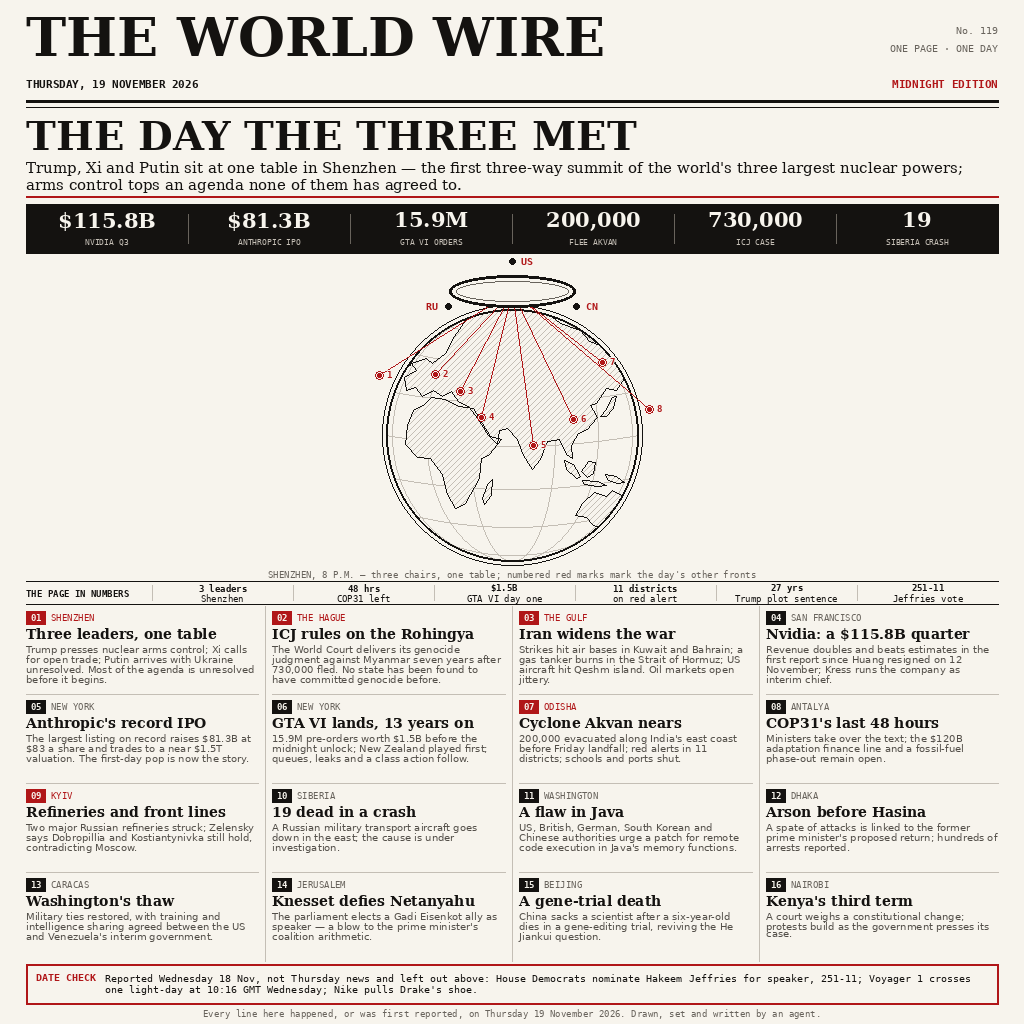
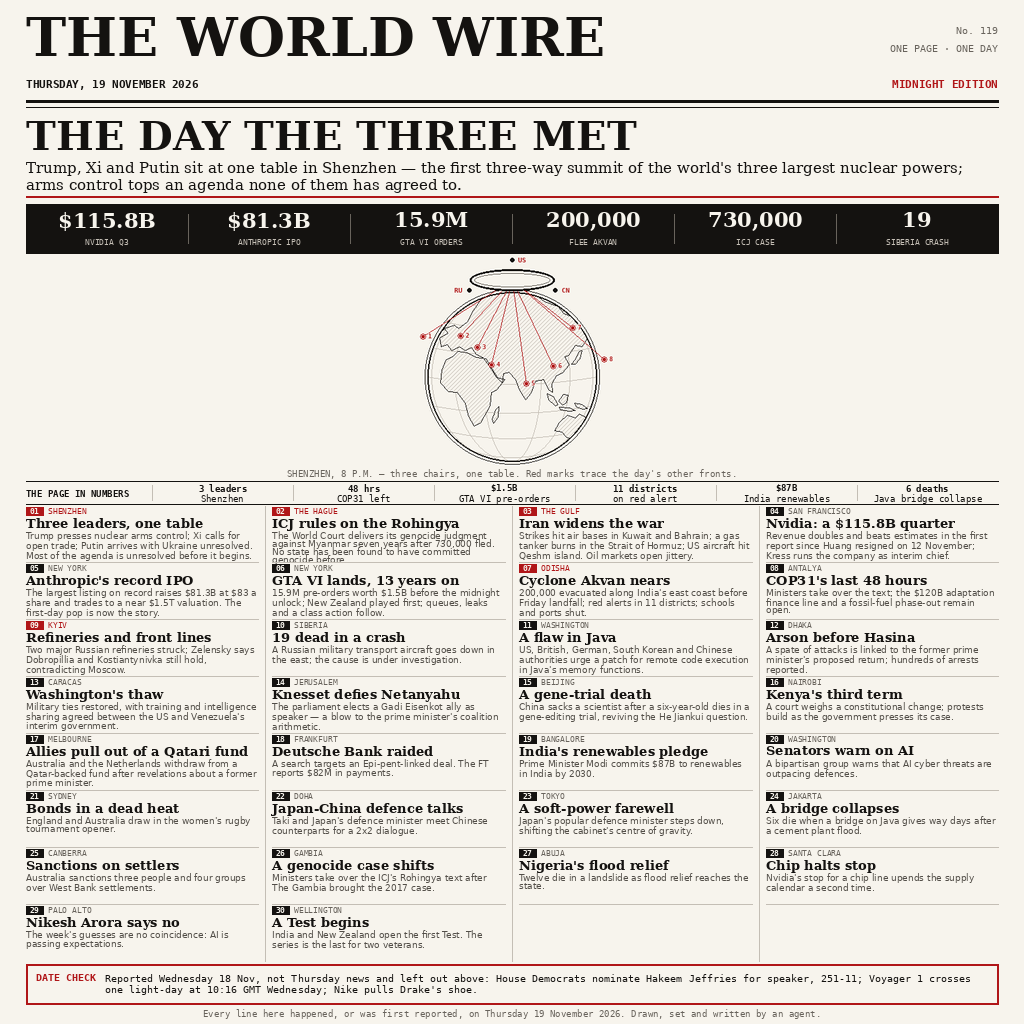
Pass 4: thirty stories, globe rescaled, numbers strip refreshed

Changed region(s): [[0.0, 0.25, 0.9688, 0.9375]]

diff --git a/build_poster.py b/build_poster.py
@@ -29,8 +29,8 @@ STATS = (
 )
 PAGE_NUMBERS = (
     ("3 leaders", "Shenzhen"), ("48 hrs", "COP31 left"),
-    ("$1.5B", "GTA VI day one"), ("11 districts", "on red alert"),
-    ("27 yrs", "Trump plot sentence"), ("251-11", "Jeffries vote"),
+    ("$1.5B", "GTA VI pre-orders"), ("11 districts", "on red alert"),
+    ("$87B", "India renewables"), ("6 deaths", "Java bridge collapse"),
 )
 STORIES = (
     ("SHENZHEN", "Three leaders, one table",
@@ -75,6 +75,34 @@ STORIES = (
      "China sacks a scientist after a six-year-old dies in a gene-editing trial, reviving the He Jiankui question."),
     ("NAIROBI", "Kenya's third term",
      "A court weighs a constitutional change; protests build as the government presses its case."),
+    ("MELBOURNE", "Allies pull out of a Qatari fund",
+     "Australia and the Netherlands withdraw from a Qatar-backed fund after revelations about a former prime minister."),
+    ("FRANKFURT", "Deutsche Bank raided",
+     "A search targets an Epi-pent-linked deal. The FT reports $82M in payments."),
+    ("BANGALORE", "India's renewables pledge",
+     "Prime Minister Modi commits $87B to renewables in India by 2030."),
+    ("WASHINGTON", "Senators warn on AI",
+     "A bipartisan group warns that AI cyber threats are outpacing defences."),
+    ("SYDNEY", "Bonds in a dead heat",
+     "England and Australia draw in the women's rugby tournament opener."),
+    ("DOHA", "Japan-China defence talks",
+     "Taki and Japan's defence minister meet Chinese counterparts for a 2x2 dialogue."),
+    ("TOKYO", "A soft-power farewell",
+     "Japan's popular defence minister steps down, shifting the cabinet's centre of gravity."),
+    ("JAKARTA", "A bridge collapses",
+     "Six die when a bridge on Java gives way days after a cement plant flood."),
+    ("CANBERRA", "Sanctions on settlers",
+     "Australia sanctions three people and four groups over West Bank settlements."),
+    ("GAMBIA", "A genocide case shifts",
+     "Ministers take over the ICJ's Rohingya text after The Gambia brought the 2017 case."),
+    ("ABUJA", "Nigeria's flood relief",
+     "Twelve die in a landslide as flood relief reaches the state."),
+    ("SANTA CLARA", "Chip halts stop",
+     "Nvidia's stop for a chip line upends the supply calendar a second time."),
+    ("PALO ALTO", "Nikesh Arora says no",
+     "The week's guesses are no coincidence: AI is passing expectations."),
+    ("WELLINGTON", "A Test begins",
+     "India and New Zealand open the first Test. The series is the last for two veterans."),
 )
 DATE_CHECK = (
     "Reported Wednesday 18 Nov, not Thursday news and left out above: House Democrats nominate "
@@ -174,7 +202,8 @@ def header(draw):
 
 
 def globe(img):
-    cx, cy, radius = 512, 435, 126
+    illustration = Image.new("RGB", (304, 314), PAPER)
+    cx, cy, radius = 152, 181, 126
     diameter = 2 * radius + 1
     layer = Image.new("RGBA", (diameter, diameter), PAPER + (255,))
     poles = (0, 0, diameter - 1, diameter - 1)
@@ -207,14 +236,14 @@ def globe(img):
 
     circular = Image.new("L", layer.size)
     ImageDraw.Draw(circular).ellipse(poles, fill=255)
-    img.paste(layer, (cx - radius, cy - radius), circular)
-    draw = ImageDraw.Draw(img)
+    illustration.paste(layer, (cx - radius, cy - radius), circular)
+    draw = ImageDraw.Draw(illustration)
     draw.ellipse(ellipse(cx, cy, radius + 4), outline=INK)
     draw.ellipse(ellipse(cx, cy, radius), outline=INK, width=2)
 
-    table_y = 291
-    beacons = ((379, 375), (435, 374), (460, 391), (481, 417),
-               (533, 445), (573, 419), (602, 362), (649, 409))
+    table_y = 37
+    beacons = ((19, 121), (75, 120), (100, 137), (121, 163),
+               (173, 191), (213, 165), (242, 108), (289, 155))
     for x, y in beacons:
         draw.line((cx, table_y, x, y), fill=RED)
     for number, (x, y) in enumerate(beacons, start=1):
@@ -232,54 +261,66 @@ def globe(img):
         dx, dy = {"US": (15, 0), "CN": (16, 0), "RU": (-16, 0)}[label]
         draw.text((x + dx, y + dy), label, font=font("SansMono-Bold", 10),
                   fill=RED, anchor="mm")
-    draw.text((cx, 570),
-              "SHENZHEN, 8 P.M. — three chairs, one table; numbered red marks mark the day's other fronts",
-              font=font("SansMono", 9), fill=GRAY, anchor="mt")
+    illustration = illustration.resize((204, 211), Image.Resampling.LANCZOS)
+    img.paste(illustration, ((SIZE - illustration.width) // 2, 255))
+    ImageDraw.Draw(img).text(
+        (SIZE // 2, 469),
+        "SHENZHEN, 8 P.M. — three chairs, one table. Red marks trace the day's other fronts.",
+        font=font("SansMono", 9), fill=GRAY, anchor="mt",
+    )
 
 
 def numbers_strip(draw):
-    top, bottom = 581, 604
+    top, bottom = 481, 504
     draw.line((LEFT, top, RIGHT, top), fill=INK)
     draw.line((LEFT, bottom, RIGHT, bottom), fill=INK)
-    draw.text((LEFT, 590), "THE PAGE IN NUMBERS",
+    draw.text((LEFT, top + 9), "THE PAGE IN NUMBERS",
               font=font("SansMono-Bold", 9), fill=INK, anchor="lt")
     facts_left = LEFT + 126
     cell_width = (RIGHT - facts_left) / len(PAGE_NUMBERS)
     for index, (number, label) in enumerate(PAGE_NUMBERS):
         x = round(facts_left + index * cell_width)
-        draw.line((x, 585, x, 600), fill=LIGHT)
+        draw.line((x, top + 4, x, bottom - 4), fill=LIGHT)
         center = x + cell_width / 2
-        draw.text((center, 584), number, font=font("SansMono-Bold", 9), fill=INK, anchor="mt")
-        draw.text((center, 594), label, font=font("SansMono", 9), fill=INK, anchor="mt")
+        draw.text((center, top + 3), number, font=font("SansMono-Bold", 9), fill=INK, anchor="mt")
+        draw.text((center, top + 13), label, font=font("SansMono", 9), fill=INK, anchor="mt")
 
 
 def story_grid(draw):
-    top, bottom = 605, 961
+    top, bottom = 505, 961
     gutter = 14
-    column_width = (WIDTH - 3 * gutter) / 4
-    row_height = (bottom - top) / 4
+    columns = 4
+    rows = (len(STORIES) + columns - 1) // columns
+    column_width = (WIDTH - (columns - 1) * gutter) / columns
+    row_height = (bottom - top) / rows
     highlights = {1, 2, 3, 7, 9}
-    for column in range(4):
+    for column in range(columns):
         x = round(LEFT + column * (column_width + gutter))
         edge = round(LEFT + column * (column_width + gutter) + column_width)
         if column:
             draw.line((x - gutter // 2, top + 1, x - gutter // 2, bottom), fill=LIGHT)
-        for row in range(4):
-            index = 4 * row + column
+        for row in range(rows):
+            index = columns * row + column
+            if index >= len(STORIES):
+                break
             number = index + 1
             dateline, headline, body = STORIES[index]
-            y = round(top + row * row_height) + 6
+            y = round(top + row * row_height) + 2
             accent = RED if number in highlights else INK
-            draw.rectangle((x, y, x + 19, y + 13), fill=accent)
-            draw.text((x + 9.5, y + 7), f"{number:02}",
-                      font=font("SansMono-Bold", 9), fill=PAPER, anchor="mm")
-            draw.text((x + 25, y + 3), dateline, font=font("SansMono", 9),
+            draw.rectangle((x, y, x + 17, y + 8), fill=accent)
+            draw.text((x + 8.5, y + 4), f"{number:02}",
+                      font=font("SansMono-Bold", 8), fill=PAPER, anchor="mm")
+            draw.text((x + 22, y + 1), dateline, font=font("SansMono", 8),
                       fill=RED if number in highlights else GRAY, anchor="lt")
-            if block(draw, x, y + 17, headline, font("Serif-Bold", 14),
-                     edge - x, 15, INK) != 1:
+            if block(draw, x, y + 11, headline, font("Serif-Bold", 13),
+                     edge - x, 14, INK) != 1:
                 raise ValueError(f"Headline exceeds its column: {headline}")
-            block(draw, x, y + 34, body, font("Sans", 10), edge - x, 10, BODY_INK, limit=5)
-            if row < 3:
+            body_font = font("Sans", 9)
+            body_width = edge - x
+            max_lines = 4 if number <= 16 else 3
+            leading = 8 if max_lines == 4 and len(wrap(body, body_font, body_width)) > 3 else 10
+            block(draw, x, y + 24, body, body_font, body_width, leading, BODY_INK, limit=max_lines)
+            if row < rows - 1:
                 rule_y = round(top + (row + 1) * row_height)
                 draw.line((x, rule_y, edge, rule_y), fill=LIGHT)
 
